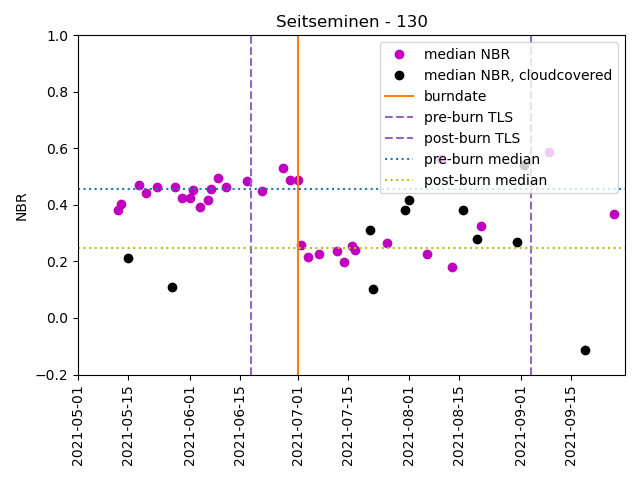
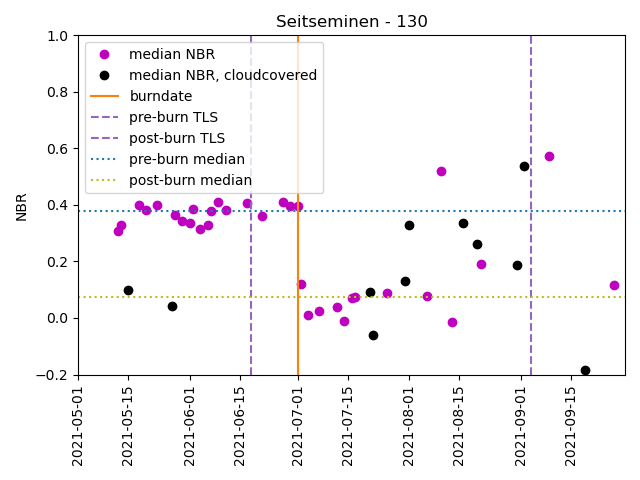
cleanup

diff --git a/read_hdf.py b/read_hdf.py
@@ -88,7 +88,7 @@ def get_closest(prepostdates, keydatedict):
 #only non cloudy dates
 keydatedict = {'130': ['20210512', '20210513', '20210518', '20210520', '20210523', '20210528', '20210530', '20210601', '20210602', '20210604', '20210606', '20210607', '20210609', '20210611', '20210617', '20210621', '20210627', '20210629', '20210701', '20210702', '20210704', '20210707', '20210712', '20210714', '20210716', '20210717', '20210726', '20210806', '20210810', '20210813', '20210821', '20210909', '20210927', '20211014', '20211019'], '190': ['20210512', '20210517', '20210519', '20210601', '20210606', '20210608', '20210611', '20210613', '20210623', '20210626', '20210703', '20210706', '20210716', '20210726', '20210802', '20210807', '20210815', '20210906', '20211004', '20211019', '20211024'], '214': ['20210512', '20210525', '20210530', '20210604', '20210606', '20210609', '20210611', '20210619', '20210626', '20210629', '20210704', '20210714', '20210716', '20210726', '20210813', '20210828', '20210927', '20211019', '20211029'], '269': ['20210204', '20210206', '20210209', '20210211', '20210214', '20210326', '20210331', '20210412', '20210415', '20210417', '20210430', '20210512', '20210527', '20210530', '20210606', '20210611', '20210619', '20210621', '20210626', '20210701', '20210704', '20210714', '20210716', '20210724', '20210726', '20210810', '20210813', '20210902', '20210927', '20211017', '20211019'], '2854': ['20210512', '20210524', '20210529', '20210530', '20210604', '20210611', '20210616', '20210618', '20210619', '20210621', '20210701', '20210703', '20210704', '20210711', '20210714', '20210716', '20210718', '20210721', '20210726', '20210731', '20210808', '20210810', '20210813', '20210902', '20210904', '20210916', '20210926', '20211006', '20211024']}
 
-get_closest(prepostdates,keydatedict)
+#get_closest(prepostdates,keydatedict)
 
 names = {
     '130': 'Seitseminen',
@@ -134,7 +134,7 @@ with h5py.File('burnt_area_clipped_nd_fixed.h5', 'r') as hdf:
                  
                 #print(np.count_nonzero(df[df==99999]))
                 if np.count_nonzero(df[df==99999]) == 0: 
-                    
+                    """
                     #print(preposts2dates)
                     preTLS = rp[preposts2tlsdates[a][0]]
                     postTLS = rp[preposts2tlsdates[a][1]]
@@ -147,11 +147,12 @@ with h5py.File('burnt_area_clipped_nd_fixed.h5', 'r') as hdf:
 
                     rdnbrtls = np.divide(dnbrtls,np.sqrt(np.abs(preTLS)))
                     rdnbrs2 = np.divide(dnbrs2,np.sqrt(np.abs(pres2)))
+                    """
 
                     df[(df < -1) | (df > 1)] = np.nan
                     datekey = datetime.datetime.strptime(key,"%Y%m%d").date() 
                     datekey2 = mpl.dates.date2num(datekey)
-                    median = np.nanmedian(df)
+                    median = np.nanmedian(df)#np.nanpercentile(df, 75)
                     
                     if datekey > datetime.datetime.strptime('20210501',"%Y%m%d").date() and datekey < datetime.datetime.strptime(burndates[a],"%Y%m%d").date():
                         preburn.append(median)
@@ -162,7 +163,7 @@ with h5py.File('burnt_area_clipped_nd_fixed.h5', 'r') as hdf:
                     df[(df < -1) | (df > 1)] = np.nan
                     datekey = datetime.datetime.strptime(key,"%Y%m%d").date() 
                     datekey2 = mpl.dates.date2num(datekey)
-                    median = np.nanmedian(df)
+                    median = np.nanmedian(df)#np.nanpercentile(df, 75)
                     oneidnotallpixels[datekey] = median
         """
         #print(dnbrs2)
@@ -197,26 +198,27 @@ with h5py.File('burnt_area_clipped_nd_fixed.h5', 'r') as hdf:
         plt.savefig('rdnbr_tls_id_'+ a+ '.png')
         plt.show()
         plt.clf()
+        
         """
-
         #print(oneidmedians)
 
-        preburnmedian = np.nanmedian(np.array(preburn))
-        postburnmedian = np.nanmedian(np.array(postburn))
+        preburnmedian = np.nanmedian(np.array(preburn))#np.nanpercentile(np.array(preburn),75)
+        postburnmedian = np.nanmedian(np.array(postburn))#np.nanpercentile(np.array(postburn),75)
 
 
-        print(np.median(dnbrs2))
-        print(np.median(rdnbrs2))
+        #print(np.median(dnbrs2))
+        #print(np.median(rdnbrs2))
+        
         #print(preburnmedian)
         #print(postburnmedian)
         #dnbr = np.subtract(preburnmedian,postburnmedian)
         #print(dnbr)
         #print((dnbr/np.sqrt(np.abs(preburnmedian))))
-        """
+        
         #print(*sorted(oneidmedians.items()))
         #print(*sorted(oneidmedians.items()))
-        plt.plot(*zip(*sorted(oneidmedians.items())), 'om', label= 'median NBR')
-        plt.plot(*zip(*sorted(oneidnotallpixels.items())), 'ok', label= 'median NBR, cloudcovered')
+        plt.plot(*zip(*sorted(oneidmedians.items())), 'om', label= 'median NBR') #'median NBR')
+        plt.plot(*zip(*sorted(oneidnotallpixels.items())), 'ok', label= 'median NBR, cloudcovered')#'median NBR, cloudcovered')
 
         #x_new = np.linspace(18748, 18885, 300)
 
@@ -234,8 +236,11 @@ with h5py.File('burnt_area_clipped_nd_fixed.h5', 'r') as hdf:
         burnnumber = mpl.dates.date2num(datetime.datetime.strptime(burndates[a],"%Y%m%d").date())
         plt.axhline(y= preburnmedian, color = 'tab:blue', label= 'pre-burn median', linestyle= 'dotted')
         plt.axhline(y= postburnmedian, color= 'tab:olive', label = 'post-burn median', linestyle = 'dotted')
+        
+        #plt.axhline(y= preburnmedian, color = 'tab:blue', label= 'pre-burn median', linestyle= 'dotted')
+        #plt.axhline(y= postburnmedian, color= 'tab:olive', label = 'post-burn median', linestyle = 'dotted')
         plt.gca().set_xbound(datetime.date(2021, 5, 1), datetime.date(2021, 9, 30))
-        plt.gca().set_ybound(-0.2,1)
+        plt.gca().set_ybound(-1,1)
         #locs, labels = plt.xticks()
         #print(locs)
         
@@ -245,10 +250,10 @@ with h5py.File('burnt_area_clipped_nd_fixed.h5', 'r') as hdf:
         plt.tight_layout()
         plt.legend()
 
-        plt.savefig("timeseries_id" + a + '.png')
+        plt.savefig("timeseries_median_id" + a + '.png')
         plt.show()
         plt.clf()
-        """
+        
 
 
 

diff --git a/gif.py b/gif.py
@@ -1,8 +1,9 @@
 
 import glob
-
-
+"""
+#nbr
 sorteddates =  ['20200422', '20200505', '20200522', '20200614', '20200616', '20200626', '20200706', '20200716', '20200731', '20200808', '20200818', '20200820', '20200927', '20201002', '20210512', '20210606', '20210704', '20210927']
+
 
 
 for atype in ["B08","B8A","B11","ndvi","kndvi"]:
@@ -12,4 +13,14 @@ for atype in ["B08","B8A","B11","ndvi","kndvi"]:
         filenames.append(filename)
     command = 'convert ' + ' '.join(filenames) +  ' ' + atype + '.gif'
     print(command)
+"""
 
+sorteddates = {'130': ['20210512', '20210513', '20210518', '20210520', '20210523', '20210528', '20210530', '20210601', '20210602', '20210604', '20210606', '20210607', '20210609', '20210611', '20210617', '20210621', '20210627', '20210629', '20210701', '20210702', '20210704', '20210707', '20210712', '20210714', '20210716', '20210717', '20210726', '20210806', '20210810', '20210813', '20210821', '20210909', '20210927', '20211014', '20211019'], '2854': ['20210512', '20210524', '20210529', '20210530', '20210604', '20210611', '20210616', '20210618', '20210619', '20210621', '20210701', '20210703', '20210704', '20210711', '20210714', '20210716', '20210718', '20210721', '20210726', '20210731', '20210808', '20210810', '20210813', '20210902', '20210904', '20210916', '20210926', '20211006', '20211024'], '269': ['20210204', '20210206', '20210209', '20210211', '20210214', '20210326', '20210331', '20210412', '20210415', '20210417', '20210430', '20210512', '20210527', '20210530', '20210606', '20210611', '20210619', '20210621', '20210626', '20210701', '20210704', '20210714', '20210716', '20210724', '20210726', '20210810', '20210813', '20210902', '20210927', '20211017', '20211019'], '214': ['20210512', '20210525', '20210530', '20210604', '20210606', '20210609', '20210611', '20210619', '20210626', '20210629', '20210704', '20210714', '20210716', '20210726', '20210813', '20210828', '20210927', '20211019', '20211029'], '190': ['20210512', '20210517', '20210519', '20210601', '20210606', '20210608', '20210611', '20210613', '20210623', '20210626', '20210703', '20210706', '20210716', '20210726', '20210802', '20210807', '20210815', '20210906', '20211004', '20211019', '20211024']}
+
+for aid in ['269','2854','190','214','130']:
+    filenames = []
+    for date in sorteddates[aid]:
+        filename = aid + '_nbr_' + date + '_histogram.png'
+        filenames.append(filename)
+    command = 'convert ' + '-delay 100 ' +' '.join(filenames) +  ' ' + aid + '_histogram.gif'
+    print(command)

diff --git a/collect_dates.py b/collect_dates.py
@@ -2,16 +2,16 @@ import os
 import rasterio
 import numpy as np
 import matplotlib.pyplot as plt
-import fiona
+#import fiona
 import rasterio.mask
 
-
+"""
 with fiona.open("full_cloud_400m_clipped_32635.shp", "r") as shapefile:
     shapes = [feature["geometry"] for feature in shapefile]
+"""
 
 
-
-with open('finalkeepers_hyytiala_20_21_35VLJ_all.txt') as f:
+with open('finalkeepers_merged.txt') as f:
     alist = f.readlines()
 
 
@@ -19,14 +19,15 @@ dates = []
 iddates = {}
 for afile in alist:
     filename = os.path.split(afile)[-1]
-    id = filename.split('_')[-1].split('.')[0]
+    #id = filename.split('_')[-1].split('.')[0]
+    id = filename.split('_')[-3]
     date = filename.split('_')[1]
     thetype = filename.split('_')[0]
     # space in the end needs to be stripped
     with rasterio.open(afile.strip()) as af:
         ar = af.read(1)
         if np.count_nonzero(ar[ar==99999]) == 0:
-
+            """
             out_image, out_transform = rasterio.mask.mask(af, shapes, crop=True)
             out_meta = af.meta
             out_meta.update({"driver": "GTiff",
@@ -36,17 +37,31 @@ for afile in alist:
 
             with rasterio.open(filename.split('.')[0]+'_400mcloud.tif', "w", **out_meta) as dest:
                 dest.write(out_image)
+            """
 
 
 
             ar[(ar < -1) | (ar > 1)] = np.nan
             print(np.nanmin(ar))
             print(np.nanmax(ar))
-            plt.imshow(ar)
-            plt.colorbar()
-            plt.savefig(thetype + '_' + date + '.png')
+            """
+            HIST_BINS = np.linspace(-0.2, 1, 100)
+            plt.hist(ar.flatten(), bins=HIST_BINS)
+            plt.ylim([0,30])
+            plt.xlim([-0.2,1])
+            plt.title(id + '_' +thetype + '_' + date)
+            plt.savefig(id + '_' +thetype + '_' + date + '_histogram.png')
+            #plt.show()
             plt.clf()
 
+            """
+            plt.imshow(ar)
+            plt.colorbar()
+            plt.clim(-0.3,1)
+            plt.title(id + '_' +thetype + '_' + date)
+            plt.savefig(id + '_' +thetype + '_' + date + '.png')
+            plt.clf()
+            
             #keep the date otherwise not
             if not id in iddates.keys():
                 iddates[id] =[date]

diff --git a/get_overview.py b/get_overview.py
@@ -11,11 +11,13 @@ import numpy as np
 import rasterio
 
 # this includes fully cloudcovered files 
-nbrdir = '/u/58/wittkes3/unix/Documents/EODIE_complete_nbr/tifs'
+#nbrdir = '/u/58/wittkes3/unix/Documents/EODIE_complete_nbr/tifs'
+nbrdir = '/u/58/wittkes3/unix/Documents/UEF_burnt_area/prepost_tifs_nd_fixed'
 
 # all ids
 #idlist = [1,2,269,2753,2854,190,214,213,130,131,132]
-idlist = [1]
+idlist = [269,2854,190,214,130]
+#idlist = [1]
 
 nbrcontent = os.listdir(nbrdir)
 
@@ -25,7 +27,8 @@ idtiledict = {}
 for id in idlist:
     tilelist =[]
     for file in nbrcontent:
-        fileid = file.split('_')[-1].split('.')[0]
+        #fileid = file.split('_')[-1].split('.')[0]
+        fileid = file.split('_')[-3]
         if str(id) == fileid:
             tile = file.split('_')[2]
             if not tile in tilelist:
@@ -64,9 +67,11 @@ print(len(listtoremove))
 finalkeepers = []
 for file in listtokeep:
     id = file.split('_')[-1].split('.')[0]
-    if id == '1' and 'VFP' in file:
-        finalkeepers.append(file)
-    """
+    id = file.split('_')[-3]
+    
+    #if id == '1' and 'VFP' in file:
+    #    finalkeepers.append(file)
+    
     if id != '2753' and id != '2854':
         if idtiledict[int(id)][0] in file:
             # Noora does not need the following, 131 and 132 overlap with 130 and 1 and 2 are evo and hyytiala, ie there was no burn
@@ -77,10 +82,10 @@ for file in listtokeep:
         if '35VLG' in file:
             finalkeepers.append(file)
             print(file)
-    """        
+            
 print(len(finalkeepers))
 
-with open('finalkeepers_hyytiala.txt', 'w') as f:
+with open('finalkeepers_merged.txt', 'w') as f:
     for file in finalkeepers:
         f.write("%s\n" % file)
 
